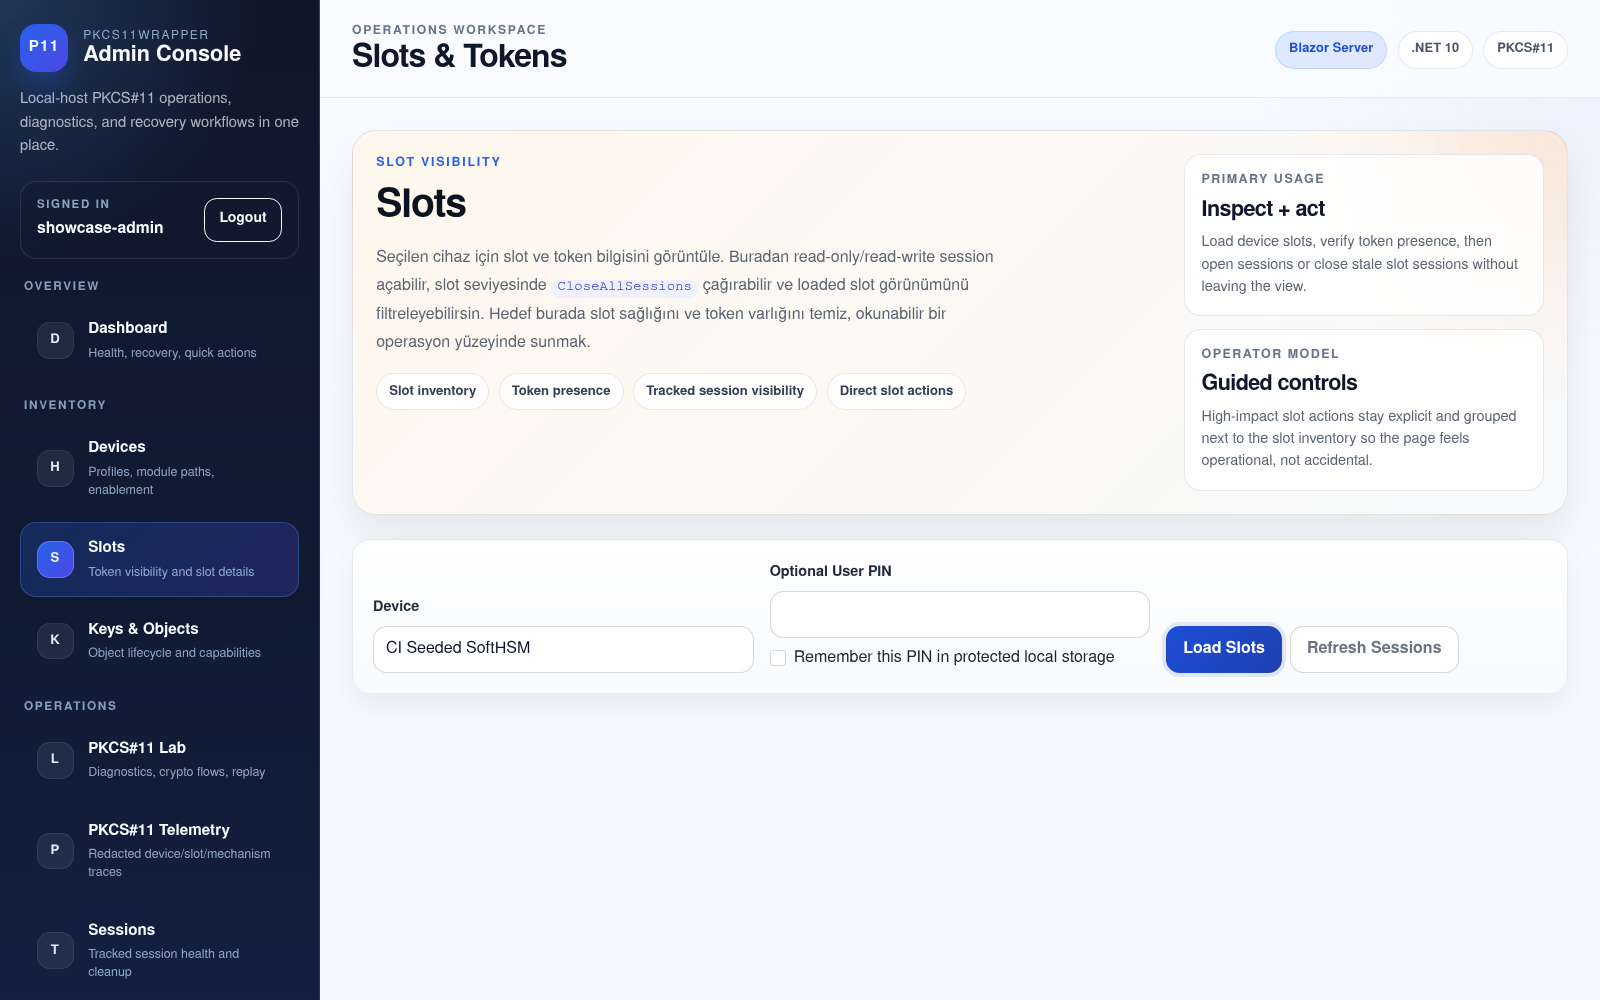
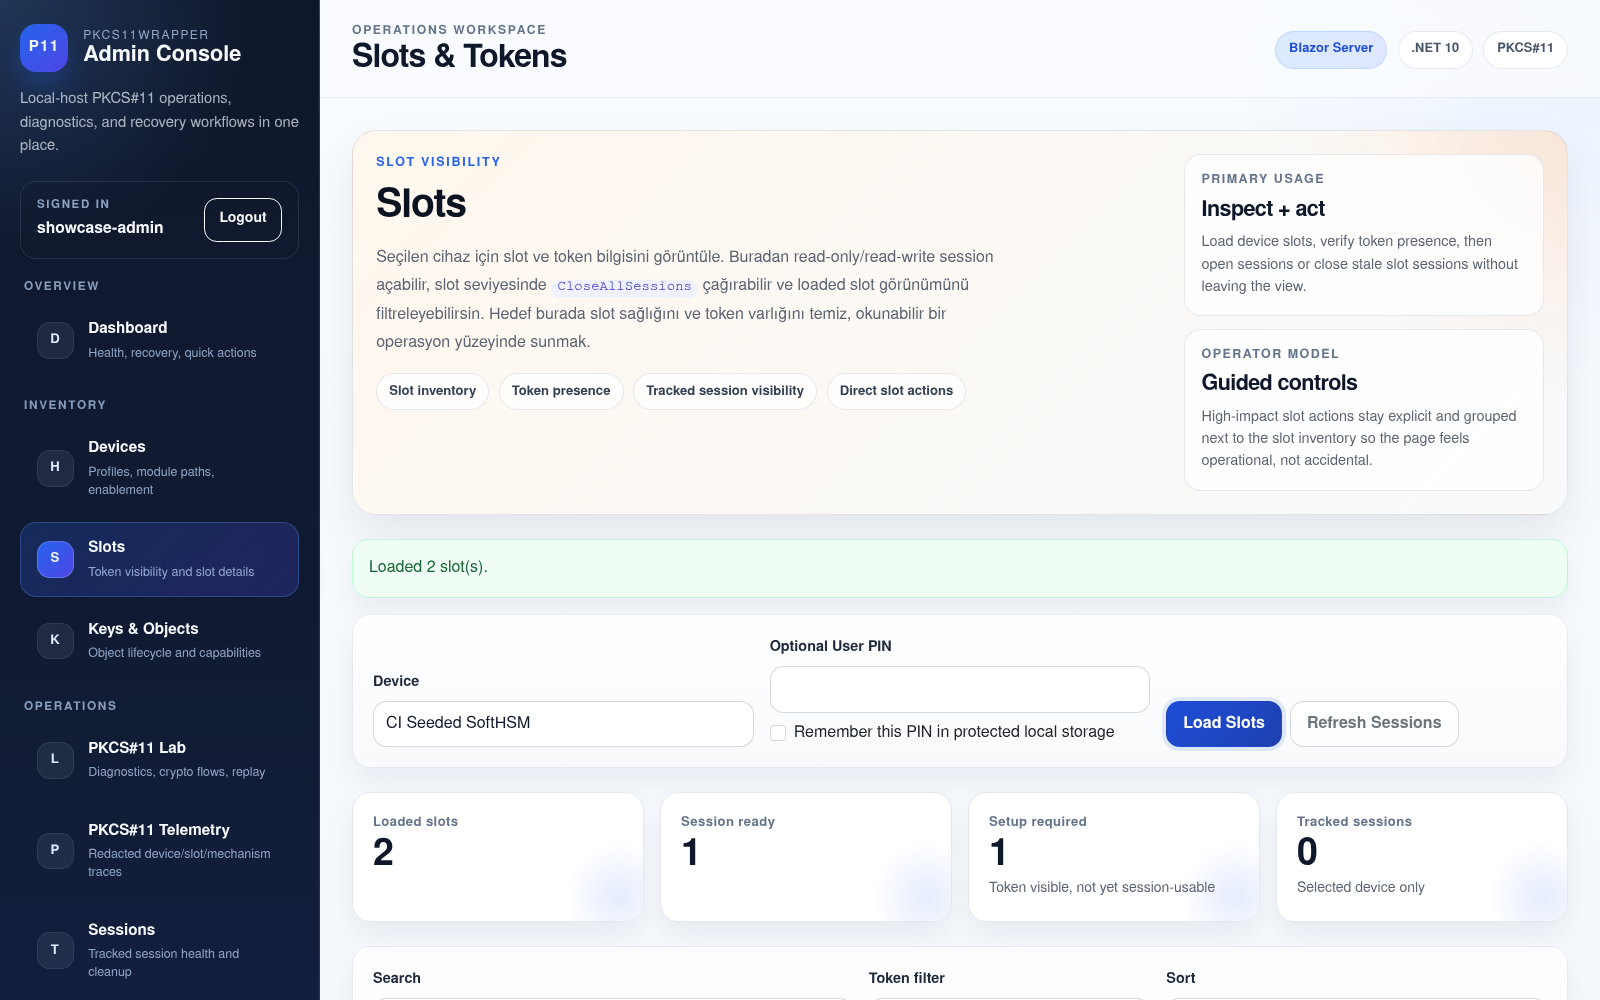
Refresh showcase docs and slots capture

diff --git a/README.tr.md b/README.tr.md
@@ -1,6 +1,7 @@
 # Pkcs11Wrapper
 
 [![CI](https://github.com/EbubekirERGUN/Pkcs11Wrapper/actions/workflows/ci.yml/badge.svg)](https://github.com/EbubekirERGUN/Pkcs11Wrapper/actions/workflows/ci.yml)
+[![Release](https://github.com/EbubekirERGUN/Pkcs11Wrapper/actions/workflows/release.yml/badge.svg)](https://github.com/EbubekirERGUN/Pkcs11Wrapper/actions/workflows/release.yml)
 [![Benchmarks](https://github.com/EbubekirERGUN/Pkcs11Wrapper/actions/workflows/benchmarks.yml/badge.svg)](https://github.com/EbubekirERGUN/Pkcs11Wrapper/actions/workflows/benchmarks.yml)
 [![.NET 10](https://img.shields.io/badge/.NET-10-512BD4)](https://dotnet.microsoft.com/)
 [![Linux](https://img.shields.io/badge/Linux-supported-2ea043)](#platform--dogrulama-durumu)
@@ -27,9 +28,11 @@ Admin panelin güncel ve küçük bir vitrin kesiti:
 
 - **Dashboard** — recovery-first operasyon özeti ve role-aware konsol çerçevesi
 - **Devices** — HSM profil envanteri, bağlantı yönetişimi akışı ve vendor-aware yönetim yüzeyi
-- **Slots** — key/session işlerine geçmeden önce token görünürlüğü ve slot seviyesinde operasyon giriş noktası
+- **Slots** — canlı yüklenmiş slot/token görünürlüğü ve key/session işlerine geçmeden önce slot seviyesinde operasyon giriş noktası
 
 Capture akışı ve doğrulama notları için: [docs/showcase/2026-04-final/README.md](docs/showcase/2026-04-final/README.md)
+
+Telemetry, security/admin recovery ve Crypto API Access yüzeyleri ekran görüntüsü sayısını şişirmek yerine aşağıdaki README bölümlerinde ve bağlı dokümanlarda temsil ediliyor.
 
 ## Bu proje neden var?
 
@@ -61,26 +64,32 @@ PKCS#11 entegrasyonları güçlüdür ama modern .NET uygulamalarında kullanım
 - Linux üzerinde NativeAOT smoke doğrulaması
 - BenchmarkDotNet tabanlı performans baseline'ı ve periyodik benchmark workflow'u
 - Opsiyonel vendor regression lane
-- Release verification script'i ve pack metadata
+- preflight kontrolleri, artifact yayını, opsiyonel NuGet push'u, SourceLink/sembol paketi doğrulaması ve release verification script'i içeren tagged release akışı
 
 ### Admin panel
 
 - Blazor Server tabanlı admin arayüzü
 - `viewer` / `operator` / `admin` rolleriyle yerel kimlik doğrulama
 - HSM cihaz profili yönetimi + yapılandırma export/import
+- opsiyonel katalog metadatası ve kurulum ipuçlarıyla vendor-aware cihaz profilleri
 - slot/token inceleme
 - key/object listeleme, detay, düzenleme, kopyalama, generate, import ve destroy akışları
 - tracked session görünürlüğü ve kontrolü (`login` / `logout` / `cancel` / `close-all` + invalidation görünürlüğü)
 - PKCS#11 Lab teşhis ekranı, kripto denemeleri, obje akışları ve scenario replay yardımcıları
+- redakte edilmiş device / slot / mechanism / status filtreleri, retention/export kontrolleri ve audit korelasyon bağlantıları içeren PKCS#11 telemetry görüntüleyicisi
+- paylaşılan store üstündeki uygulamalar, API anahtarları, alias'lar, policy'ler ve binding'ler için Crypto API Access kontrol düzlemi
 - protected PIN cache + append-only chained audit log integrity
 
 ### Crypto API host iskeleti
 
 - `src/Pkcs11Wrapper.CryptoApi` altında ayrı ASP.NET Core host
 - admin dashboard'dan ayrı, stateless ve machine-facing sınır
-- servis kimliği, API base path ve PKCS#11 module path için temel DI/config binding
-- `/health/live` + `/health/ready` endpoint'leri; readiness, yapılandırılan PKCS#11 modülünün yüklenebildiğini doğrular
-- gelecekteki request/response tabanlı kripto akışları için `/api/v1`, `/api/v1/runtime` ve `/api/v1/operations` route alanı
+- servis kimliği, API base path, PKCS#11 runtime ve shared persistence için DI/config binding
+- `/health/live` + `/health/ready` endpoint'leri; readiness, yapılandırılan PKCS#11 modülü ile varsa shared persistence sınırını doğrular
+- gelişen machine-facing sözleşme için `/api/v1`, `/api/v1/runtime`, `/api/v1/operations`, `POST /api/v1/operations/authorize`, `/api/v1/shared-state` ve `/api/v1/auth/self` route alanı
+- çoklu instance senaryoları için API client/anahtarları, key alias'ları, policy'ler ve policy binding'leri taşıyan pragmatik shared SQLite persistence
+- üretilen API anahtarı secret'larının yalnızca bir kez gösterildiği, hash olarak saklandığı ve admin panelinden alias/policy/binding yönetimiyle eşleşebildiği access-control dilimi
+- machine-facing host'u tenant portalına çevirmeden uygulamalar, alias'lar, policy'ler ve binding'ler için admin-panel/shared-store control-plane modeli
 - hedef dağıtım modeli: **bir admin dashboard + çok sayıda stateless Crypto API instance'ı**
 
 ## Platform / doğrulama durumu
@@ -88,11 +97,11 @@ PKCS#11 entegrasyonları güçlüdür ama modern .NET uygulamalarında kullanım
 | Alan | Durum | Not |
 | --- | --- | --- |
 | Linux | ✅ | en derin runtime doğrulama yolu, fixture-backed regression + NativeAOT smoke |
-| Windows | ✅ | SoftHSM-for-Windows + OpenSC ile runtime regression |
+| Windows | ✅ | SoftHSM-for-Windows + OpenSC ile fixture-backed runtime regression ve `win-x64` NativeAOT smoke |
 | PKCS#11 v3 interface discovery | ✅ | modül export etmiyorsa capability-gated davranış |
 | PKCS#11 v3 message API'leri | ✅ | managed/API desteği var; runtime modül desteğine bağlı |
-| Admin panel | ✅ | auth, local users, config transfer, audit integrity ve PKCS#11 Lab içeren işlevsel Blazor Server yönetim yüzeyi |
-| Crypto API host iskeleti | ✅ | DI/config, servis dokümanları ve health/readiness endpoint'leri içeren stateless ASP.NET Core host |
+| Admin panel | ✅ | auth, local users, config transfer, audit integrity, PKCS#11 Lab, telemetry ve Crypto API Access control-plane akışları içeren işlevsel Blazor Server yönetim yüzeyi |
+| Crypto API host iskeleti | ✅ | DI/config, servis dokümanları, health/readiness, shared SQLite tabanlı auth/policy persistence ve ilk alias-routing/policy-enforcement dilimini içeren stateless ASP.NET Core host |
 | Vendor regression lane | ✅ | opsiyonel non-SoftHSM doğrulama yolu |
 
 ## Depo mimarisi
@@ -102,7 +111,9 @@ flowchart LR
     A[Pkcs11Wrapper.Admin.Web\nBlazor Server Admin Panel] --> B[Pkcs11Wrapper.Admin.Application]
     B --> C[Pkcs11Wrapper.Admin.Infrastructure]
     B --> D[Pkcs11Wrapper]
+    A --> S[(Paylaşılan Crypto API durumu\nSQLite control-plane DB)]
     H[Pkcs11Wrapper.CryptoApi\nStateless ASP.NET Core Host] --> D
+    H --> S
     D --> E[Pkcs11Wrapper.Native]
     E --> F[PKCS#11 Module / HSM / SoftHSM]
     C --> G[JSON + Protected Local Storage + Audit Chain]
@@ -133,7 +144,18 @@ cd src/Pkcs11Wrapper.Admin.Web
 dotnet run
 ```
 
-İlk çalıştırmada panel, `App_Data/bootstrap-admin.txt` altında yerel bootstrap admin credential dosyasını oluşturur.
+Kaynak ağacı üzerinden yerel geliştirmede ilk çalıştırma, `App_Data/bootstrap-admin.txt` altında bootstrap admin credential dosyasını üretir.
+
+CI/otomasyon/container senaryolarında runtime storage root'u, bootstrap credential'ı, ilk PKCS#11 module path'i ve runtime davranışını dışarıdan verebilirsin:
+
+```bash
+export AdminStorage__DataRoot=/tmp/pkcs11wrapper-admin-data
+export LocalAdminBootstrap__UserName=ci-admin
+export LocalAdminBootstrap__Password='AdminE2E!Pass123'
+export AdminBootstrapDevice__Name='SoftHSM demo'
+export AdminBootstrapDevice__ModulePath=/usr/lib/softhsm/libsofthsm2.so
+export AdminRuntime__DisableHttpsRedirection=true
+```
 
 ### 2b) Crypto API host iskeletini çalıştır
 
@@ -141,6 +163,7 @@ dotnet run
 cd src/Pkcs11Wrapper.CryptoApi
 export CryptoApiRuntime__ModulePath=/usr/lib/libsofthsm2.so
 export CryptoApiRuntime__DisableHttpsRedirection=true
+export CryptoApiSharedPersistence__ConnectionString='Data Source=/tmp/pkcs11wrapper-cryptoapi-shared.db'
 dotnet run
 ```
 
@@ -152,8 +175,17 @@ Kullanışlı endpoint'ler:
 - `/api/v1`
 - `/api/v1/runtime`
 - `/api/v1/operations`
+- `/api/v1/shared-state`
+- `X-Api-Key-Id` + `X-Api-Key-Secret` ile `/api/v1/auth/self`
+- `X-Api-Key-Id` + `X-Api-Key-Secret` ile `POST /api/v1/operations/authorize` ve `{ "keyAlias": "payments-signer", "operation": "sign" }`
 
-Sınır ve çalışma modeli için: [docs/crypto-api-host.md](docs/crypto-api-host.md)
+Admin dashboard aynı `CryptoApiSharedPersistence:ConnectionString` değerine bağlanırsa, Crypto API client/alias/policy/binding verisinin kullandığı shared control-plane modeli üzerinde çalışabilir.
+
+Sınır, çalışma modeli ve dağıtım rehberi için:
+
+- [docs/crypto-api-deployment.md](docs/crypto-api-deployment.md)
+- [docs/crypto-api-host.md](docs/crypto-api-host.md)
+- [docs/security-review-issue-112.md](docs/security-review-issue-112.md)
 
 ### 3) Doğrulamayı çalıştır
 
@@ -161,6 +193,7 @@ Linux:
 
 ```bash
 ./eng/run-regression-tests.sh
+./eng/run-admin-e2e.sh
 ./eng/run-smoke-aot.sh
 ./eng/run-benchmarks.sh
 ```
@@ -170,7 +203,8 @@ Windows PowerShell:
 ```powershell
 .\eng\setup-softhsm-fixture.ps1 -DownloadPortable -EnvFilePath "$env:TEMP\pkcs11-fixture.ps1"
 .\eng\run-regression-tests.ps1 -UseExistingEnv -EnvFilePath "$env:TEMP\pkcs11-fixture.ps1"
-.\eng\run-smoke.ps1 -UseExistingEnv -EnvFilePath "$env:TEMP\pkcs11-fixture.ps1"
+.\eng\run-smoke.ps1 -UseExistingEnv -EnvFilePath "$env:TEMP\pkcs11-fixture.ps1" -Strict
+.\eng\run-smoke-aot.ps1 -UseExistingEnv -EnvFilePath "$env:TEMP\pkcs11-fixture.ps1" -Strict
 .\eng\run-benchmarks.ps1 -UseExistingEnv -EnvFilePath "$env:TEMP\pkcs11-fixture.ps1"
 ```
 
@@ -213,10 +247,11 @@ Admin panel, core wrapper'ın içine gömülmek yerine **kütüphanenin üstünd
 
 Şu anki yetenekler:
 
-- device profile CRUD
+- opsiyonel vendor metadata/profile selection ile device profile CRUD
 - `viewer` / `operator` / `admin` rolleriyle local cookie auth
 - local user management, password rotation ve bootstrap credential lifecycle kontrolleri
 - PKCS#11 module connection test
+- vendor-tagged profile seçildiğinde Devices, Slots, Keys ve PKCS#11 Lab üzerinde vendor-aware setup hint/caveat görünürlüğü
 - slot ve token görüntüleme
 - key/object listeleme, detay, düzenleme, kopyalama, generate, import, destroy akışları
 - tracked session login/logout/cancel kontrolleri + slot-level close-all
@@ -224,6 +259,8 @@ Admin panel, core wrapper'ın içine gömülmek yerine **kütüphanenin üstünd
 - tekrar eden işlemler için protected PIN cache
 - device-profile configuration export/import
 - teşhis, kripto operasyonları, object inspection, wrap/unwrap, raw attribute read ve scenario replay için PKCS#11 Lab
+- redakte edilmiş wrapper-level operasyon izleri, bounded retention/export kontrolleri ve audit korelasyonu için PKCS#11 telemetry görüntüleyicisi
+- shared-store application onboarding, API-key lifecycle, alias routing, policy tanımları ve binding yönetimi için Crypto API Access yüzeyi
 - integrity verification içeren chained audit entries
 
 ## Doküman haritası
@@ -233,15 +270,33 @@ Admin panel, core wrapper'ın içine gömülmek yerine **kütüphanenin üstünd
 - [docs/windows-local-setup.md](docs/windows-local-setup.md) - yerel Windows fixture/bootstrap akışı
 - [docs/benchmarks.md](docs/benchmarks.md) - benchmark kapsamı, tekrar çalıştırma akışı, periyodik takip modeli
 - [docs/benchmarks/latest-linux-softhsm.md](docs/benchmarks/latest-linux-softhsm.md) - güncel commitlenmiş Linux benchmark baseline'ı
+- [docs/admin-container.md](docs/admin-container.md) - standalone admin container dağıtım rehberi, volume yerleşimi, PKCS#11 mount kalıpları ve local/dev ile production-safe sınırlar
+- [docs/crypto-api-deployment.md](docs/crypto-api-deployment.md) - tek dashboard + çoklu Crypto API instance topolojisi, ölçekleme beklentileri, shared-state sınırları ve container/deployment rehberi
 - [docs/crypto-api-host.md](docs/crypto-api-host.md) - stateless Crypto API host sınırı, çalışma modeli, konfigürasyon ve mevcut iskelet endpoint'leri
+- `deploy/container/admin-panel.env.example` - standalone admin container yolu için başlangıç env şablonu
+- `deploy/container/crypto-api.env.example` - operator-built Crypto API process/container wrapper'ları için başlangıç env şablonu
+- [deploy/compose/softhsm-lab/README.md](deploy/compose/softhsm-lab/README.md) - admin panel + SoftHSM backend için local/dev/lab compose yığını
 - [docs/security-review-issue-112.md](docs/security-review-issue-112.md) - issue #112 için ürün yüzeyi güvenlik incelemesi, yapılan sertleştirmeler ve açık kalan sınırlar
 - [docs/admin-ops-recovery.md](docs/admin-ops-recovery.md) - lokal admin-panel operasyon ve recovery rehberi
 - [docs/vendor-regression.md](docs/vendor-regression.md) - vendor uyumluluk profili ve env sözleşmesi
 - [docs/luna-integration.md](docs/luna-integration.md) - wrapper, admin panel, smoke ve vendor regression için pratik Thales Luna client/module kurulum rehberi
 - [docs/luna-compatibility-audit.md](docs/luna-compatibility-audit.md) - Thales Luna genel dokümantasyonuna göre mevcut wrapper/admin/runtime kapsamı uyumluluk denetimi
+- [docs/cloudhsm-integration.md](docs/cloudhsm-integration.md) - wrapper ve admin panel kullanımı için pratik AWS CloudHSM Client SDK 5 kurulum rehberi
+- [docs/cloudhsm-compatibility-audit.md](docs/cloudhsm-compatibility-audit.md) - AWS CloudHSM standart PKCS#11 uyumluluğunun mevcut wrapper/admin/runtime kapsamıyla public-doc denetimi
+- [docs/azure-cloud-hsm-integration.md](docs/azure-cloud-hsm-integration.md) - wrapper/admin panel kullanımı ve Cloud HSM vs Managed HSM sınırı için pratik Azure Cloud HSM SDK/PKCS#11 kurulum rehberi
+- [docs/azure-cloud-hsm-compatibility-audit.md](docs/azure-cloud-hsm-compatibility-audit.md) - Azure Cloud HSM'in direct PKCS#11 uyumunun mevcut wrapper/admin/runtime kapsamıyla public-doc denetimi
+- [docs/google-cloud-hsm-integration.md](docs/google-cloud-hsm-integration.md) - wrapper ve admin panel kullanımı için Google Cloud KMS / Cloud HSM via kmsp11 kurulum rehberi
+- [docs/google-cloud-hsm-compatibility-audit.md](docs/google-cloud-hsm-compatibility-audit.md) - Google Cloud HSM'in dolaylı kmsp11 PKCS#11 yolunun mevcut wrapper/admin/runtime kapsamıyla public-doc denetimi
+- [docs/ibm-cloud-hpcs-integration.md](docs/ibm-cloud-hpcs-integration.md) - wrapper/admin panel kullanımı ve direct-vs-GREP11 sınırı için IBM Cloud Hyper Protect Crypto Services EP11 PKCS#11 kurulum rehberi
+- [docs/ibm-cloud-hpcs-compatibility-audit.md](docs/ibm-cloud-hpcs-compatibility-audit.md) - IBM Cloud HPCS direct PKCS#11 uyumunun mevcut wrapper/admin/runtime kapsamıyla public-doc denetimi
+- [docs/oci-dedicated-kms-integration.md](docs/oci-dedicated-kms-integration.md) - wrapper/admin panel kullanımı ve direct-vs-OCI-Vault sınırı için Oracle OCI Dedicated KMS kurulum rehberi
+- [docs/oci-dedicated-kms-compatibility-audit.md](docs/oci-dedicated-kms-compatibility-audit.md) - Oracle OCI Dedicated KMS PKCS#11 uyumunun mevcut wrapper/admin/runtime kapsamıyla public-doc denetimi
 - [docs/luna-vendor-extension-design.md](docs/luna-vendor-extension-design.md) - gelecekteki Luna-only `CA_*` desteği için önerilen paket/sınır/yükleme/test stratejisi
 - [docs/vendor-audit-integration.md](docs/vendor-audit-integration.md) - wrapper telemetry ile vendor-native HSM audit farkını ve Thales Luna için CLI/syslog/export/API entegrasyon seçeneklerini değerlendiren not
 - [docs/smoke.md](docs/smoke.md) - smoke sample davranışı ve troubleshooting
+- [docs/telemetry-redaction.md](docs/telemetry-redaction.md) - PKCS#11 telemetry redaction politikası
+- [docs/telemetry-integrations.md](docs/telemetry-integrations.md) - `ILogger` ve `ActivitySource` / OpenTelemetry entegrasyon rehberi
+- [docs/admin-telemetry-operations.md](docs/admin-telemetry-operations.md) - admin telemetry retention, rotation, export ve audit-correlation operasyonları
 - [docs/release.md](docs/release.md) - release checklist ve packaging disiplini
 - [docs/versioning.md](docs/versioning.md) - merkezi versioning modeli ve tag stratejisi
 - [docs/admin-panel-roadmap.md](docs/admin-panel-roadmap.md) - admin panel yol haritası

diff --git a/README.md b/README.md
@@ -28,9 +28,11 @@ A small, current showcase slice from the admin panel:
 
 - **Dashboard** — recovery-first operations overview and role-aware console framing
 - **Devices** — HSM profile inventory, connection-governance workflow, and vendor-aware management surface
-- **Slots** — token visibility and slot-level operational entry point before key/session work
+- **Slots** — live slot/token visibility and slot-level operational entry point before key/session work
 
 Capture notes and the reproducible screenshot flow live in [docs/showcase/2026-04-final/README.md](docs/showcase/2026-04-final/README.md).
+
+Telemetry, security/admin recovery, and Crypto API Access are intentionally represented in the sections below instead of turning the showcase into a noisy screenshot dump.
 
 ## Why this project exists
 
@@ -75,6 +77,7 @@ PKCS#11 integrations are powerful, but they are often awkward to consume from mo
 - tracked session visibility and control (`login` / `logout` / `cancel` / `close-all` + invalidation visibility)
 - PKCS#11 Lab diagnostics, crypto experiments, object workflows, and scenario replay helpers
 - PKCS#11 telemetry viewer with redacted device / slot / mechanism / status filtering, bounded retention/rotation, safe export, and audit correlation links
+- Crypto API Access control-plane workflows for shared-store applications, API keys, aliases, policies, and bindings
 - protected PIN cache + append-only chained audit log integrity
 
 ### Crypto API host scaffold
@@ -97,7 +100,7 @@ PKCS#11 integrations are powerful, but they are often awkward to consume from mo
 | Windows | ✅ | fixture-backed runtime regression + `win-x64` NativeAOT smoke through SoftHSM-for-Windows + OpenSC |
 | PKCS#11 v3 interface discovery | ✅ | capability-gated when not exported by the module |
 | PKCS#11 v3 message APIs | ✅ | managed/API support implemented; runtime depends on module support |
-| Admin panel | ✅ | functional Blazor Server management surface with auth, local users, config transfer, audit integrity, and PKCS#11 Lab |
+| Admin panel | ✅ | functional Blazor Server management surface with auth, local users, config transfer, audit integrity, PKCS#11 Lab, telemetry, and Crypto API Access control-plane flows |
 | Crypto API host scaffold | ✅ | stateless ASP.NET Core host with DI/config, service documents, health/readiness, shared SQLite-backed auth/policy persistence, hashed API-key lifecycle controls, and the first alias-routing/policy-enforcement slice |
 | Vendor regression lane | ✅ | optional non-SoftHSM validation path |
 
@@ -360,6 +363,7 @@ Current capabilities include:
 - device-profile configuration export/import
 - PKCS#11 Lab for diagnostics, crypto operations, object inspection, wrap/unwrap, raw attribute reads, and scenario replay
 - PKCS#11 telemetry viewer for redacted wrapper-level operation traces, bounded retention/export control, and audit correlation
+- Crypto API Access for shared-store application onboarding, API-key lifecycle, alias routing, policy definitions, and binding management
 - append-only chained audit entries with integrity verification
 
 ## Documentation map

diff --git a/docs/showcase/2026-04-final/README.md b/docs/showcase/2026-04-final/README.md
@@ -6,7 +6,7 @@ It intentionally keeps the gallery small:
 
 1. `admin-dashboard.png` — top-level operations dashboard hero
 2. `admin-devices.png` — device profile inventory + governance surface
-3. `admin-slots.png` — slot/token visibility surface
+3. `admin-slots.png` — live loaded slot/token visibility surface
 
 ## Why this replaces the earlier preview concept
 
@@ -39,5 +39,6 @@ That script:
 
 - The screenshots were generated from a live local admin runtime, not mocked HTML.
 - Device/slot values come from the seeded SoftHSM fixture used by the repo's admin validation path.
+- The slots image is captured only after the page reports a loaded slot inventory, so the committed README no longer shows the weaker near-empty pre-load state.
 - The dashboard image is intentionally cropped to the designed hero slice so the README highlights the public-facing surface instead of transient lower-page runtime noise.
 - The README integration should be checked by rendering `README.md` on GitHub or any CommonMark viewer that supports inline HTML images.

diff --git a/docs/github-showcase.md b/docs/github-showcase.md
@@ -51,6 +51,8 @@ The README now uses this smaller final set:
 
 1. `docs/showcase/2026-04-final/admin-dashboard.png`
 2. `docs/showcase/2026-04-final/admin-devices.png`
-3. `docs/showcase/2026-04-final/admin-slots.png`
+3. `docs/showcase/2026-04-final/admin-slots.png` (captured from the loaded slot inventory state, not the pre-load shell)
+
+Telemetry, security/admin recovery, and Crypto API Access are intentionally carried by README copy and linked docs rather than expanding the showcase into a second screenshot row.
 
 If the repo needs one more follow-up asset later, add a **single short admin panel clip** instead of expanding back into a large screenshot dump.
